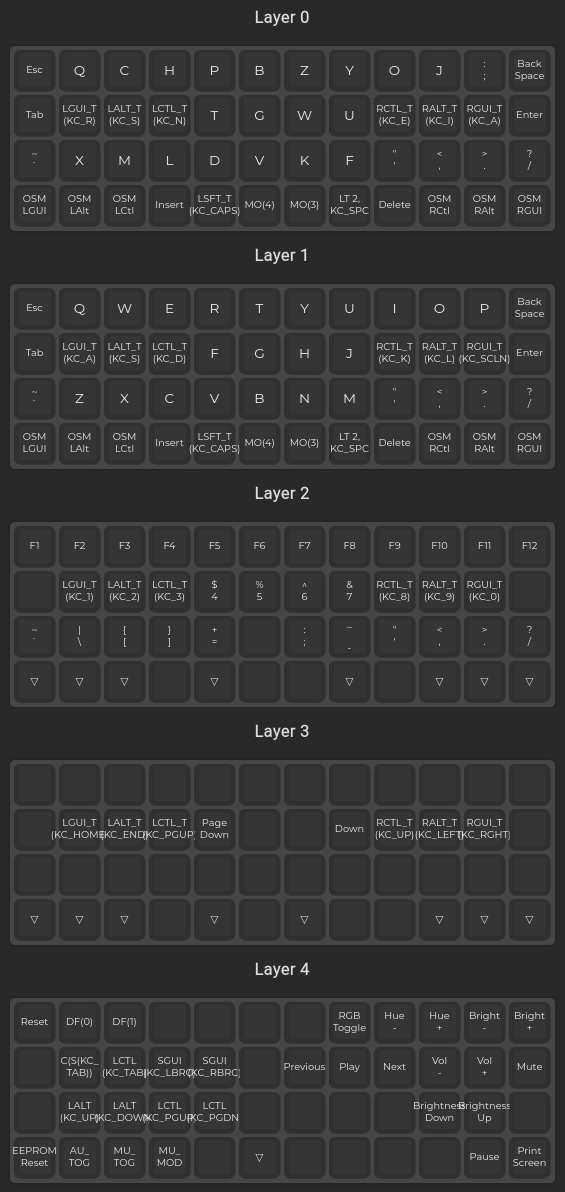
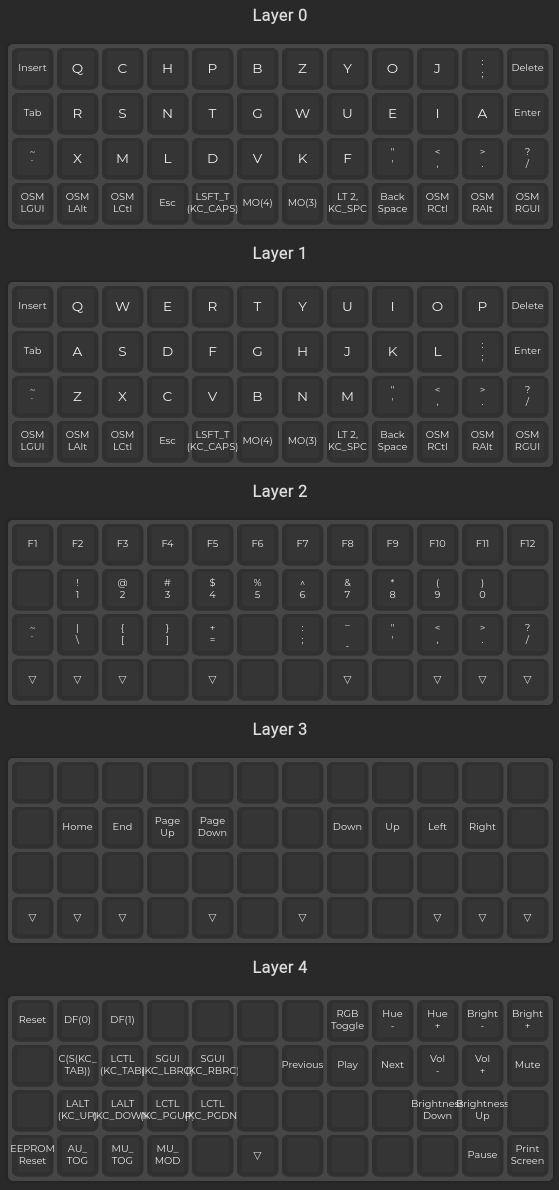
Swap to OSMs and rotate top corner keys

diff --git a/keymap.c b/keymap.c
@@ -7,9 +7,9 @@
  */
 
 const uint16_t PROGMEM keymaps[][MATRIX_ROWS][MATRIX_COLS] = {
-	[0] = LAYOUT_ortho_4x12(KC_ESC, KC_Q, KC_C, KC_H, KC_P, KC_B, KC_Z, KC_Y, KC_O, KC_J, KC_SCLN, KC_BSPC, KC_TAB, LGUI_T(KC_R), LALT_T(KC_S), LCTL_T(KC_N), KC_T, KC_G, KC_W, KC_U, RCTL_T(KC_E), RALT_T(KC_I), RGUI_T(KC_A), KC_ENT, KC_GRV, KC_X, KC_M, KC_L, KC_D, KC_V, KC_K, KC_F, KC_QUOT, KC_COMM, KC_DOT, KC_SLSH, OSM(MOD_LGUI), OSM(MOD_LALT), OSM(MOD_LCTL), KC_INS, LSFT_T(KC_CAPS), MO(4), MO(3), LT(2,KC_SPC), KC_DEL, OSM(MOD_RCTL), OSM(MOD_RALT), OSM(MOD_RGUI)),
-	[1] = LAYOUT_ortho_4x12(KC_ESC, KC_Q, KC_W, KC_E, KC_R, KC_T, KC_Y, KC_U, KC_I, KC_O, KC_P, KC_BSPC, KC_TAB, LGUI_T(KC_A), LALT_T(KC_S), LCTL_T(KC_D), KC_F, KC_G, KC_H, KC_J, RCTL_T(KC_K), RALT_T(KC_L), RGUI_T(KC_SCLN), KC_ENT, KC_GRV, KC_Z, KC_X, KC_C, KC_V, KC_B, KC_N, KC_M, KC_QUOT, KC_COMM, KC_DOT, KC_SLSH, OSM(MOD_LGUI), OSM(MOD_LALT), OSM(MOD_LCTL), KC_INS, LSFT_T(KC_CAPS), MO(4), MO(3), LT(2,KC_SPC), KC_DEL, OSM(MOD_RCTL), OSM(MOD_RALT), OSM(MOD_RGUI)),
-	[2] = LAYOUT_ortho_4x12(KC_F1, KC_F2, KC_F3, KC_F4, KC_F5, KC_F6, KC_F7, KC_F8, KC_F9, KC_F10, KC_F11, KC_F12, KC_NO, LGUI_T(KC_1), LALT_T(KC_2), LCTL_T(KC_3), KC_4, KC_5, KC_6, KC_7, RCTL_T(KC_8), RALT_T(KC_9), RGUI_T(KC_0), KC_NO, KC_GRV, KC_BSLS, KC_LBRC, KC_RBRC, KC_EQL, KC_NO, KC_SCLN, KC_MINS, KC_QUOT, KC_COMM, KC_DOT, KC_SLSH, KC_TRNS, KC_TRNS, KC_TRNS, KC_NO, KC_TRNS, KC_NO, KC_NO, KC_TRNS, KC_NO, KC_TRNS, KC_TRNS, KC_TRNS),
-	[3] = LAYOUT_ortho_4x12(KC_NO, KC_NO, KC_NO, KC_NO, KC_NO, KC_NO, KC_NO, KC_NO, KC_NO, KC_NO, KC_NO, KC_NO, KC_NO, LGUI_T(KC_HOME), LALT_T(KC_END), LCTL_T(KC_PGUP), KC_PGDN, KC_NO, KC_NO, KC_DOWN, RCTL_T(KC_UP), RALT_T(KC_LEFT), RGUI_T(KC_RGHT), KC_NO, KC_NO, KC_NO, KC_NO, KC_NO, KC_NO, KC_NO, KC_NO, KC_NO, KC_NO, KC_NO, KC_NO, KC_NO, KC_TRNS, KC_TRNS, KC_TRNS, KC_NO, KC_TRNS, KC_NO, KC_TRNS, KC_NO, KC_NO, KC_TRNS, KC_TRNS, KC_TRNS),
+	[0] = LAYOUT_ortho_4x12(KC_INS, KC_Q, KC_C, KC_H, KC_P, KC_B, KC_Z, KC_Y, KC_O, KC_J, KC_SCLN, KC_DEL, KC_TAB, KC_R, KC_S, KC_N, KC_T, KC_G, KC_W, KC_U, KC_E, KC_I, KC_A, KC_ENT, KC_GRV, KC_X, KC_M, KC_L, KC_D, KC_V, KC_K, KC_F, KC_QUOT, KC_COMM, KC_DOT, KC_SLSH, OSM(MOD_LGUI), OSM(MOD_LALT), OSM(MOD_LCTL), KC_ESC, LSFT_T(KC_CAPS), MO(4), MO(3), LT(2,KC_SPC), KC_BSPC, OSM(MOD_RCTL), OSM(MOD_RALT), OSM(MOD_RGUI)),
+	[1] = LAYOUT_ortho_4x12(KC_INS, KC_Q, KC_W, KC_E, KC_R, KC_T, KC_Y, KC_U, KC_I, KC_O, KC_P, KC_DEL, KC_TAB, KC_A, KC_S, KC_D, KC_F, KC_G, KC_H, KC_J, KC_K, KC_L, KC_SCLN, KC_ENT, KC_GRV, KC_Z, KC_X, KC_C, KC_V, KC_B, KC_N, KC_M, KC_QUOT, KC_COMM, KC_DOT, KC_SLSH, OSM(MOD_LGUI), OSM(MOD_LALT), OSM(MOD_LCTL), KC_ESC, LSFT_T(KC_CAPS), MO(4), MO(3), LT(2,KC_SPC), KC_BSPC, OSM(MOD_RCTL), OSM(MOD_RALT), OSM(MOD_RGUI)),
+	[2] = LAYOUT_ortho_4x12(KC_F1, KC_F2, KC_F3, KC_F4, KC_F5, KC_F6, KC_F7, KC_F8, KC_F9, KC_F10, KC_F11, KC_F12, KC_NO, KC_1, KC_2, KC_3, KC_4, KC_5, KC_6, KC_7, KC_8, KC_9, KC_0, KC_NO, KC_GRV, KC_BSLS, KC_LBRC, KC_RBRC, KC_EQL, KC_NO, KC_SCLN, KC_MINS, KC_QUOT, KC_COMM, KC_DOT, KC_SLSH, KC_TRNS, KC_TRNS, KC_TRNS, KC_NO, KC_TRNS, KC_NO, KC_NO, KC_TRNS, KC_NO, KC_TRNS, KC_TRNS, KC_TRNS),
+	[3] = LAYOUT_ortho_4x12(KC_NO, KC_NO, KC_NO, KC_NO, KC_NO, KC_NO, KC_NO, KC_NO, KC_NO, KC_NO, KC_NO, KC_NO, KC_NO, KC_HOME, KC_END, KC_PGUP, KC_PGDN, KC_NO, KC_NO, KC_DOWN, KC_UP, KC_LEFT, KC_RGHT, KC_NO, KC_NO, KC_NO, KC_NO, KC_NO, KC_NO, KC_NO, KC_NO, KC_NO, KC_NO, KC_NO, KC_NO, KC_NO, KC_TRNS, KC_TRNS, KC_TRNS, KC_NO, KC_TRNS, KC_NO, KC_TRNS, KC_NO, KC_NO, KC_TRNS, KC_TRNS, KC_TRNS),
 	[4] = LAYOUT_ortho_4x12(RESET, DF(0), DF(1), KC_NO, KC_NO, KC_NO, KC_NO, RGB_TOG, RGB_HUD, RGB_HUI, RGB_VAD, RGB_VAI, KC_NO, C(S(KC_TAB)), LCTL(KC_TAB), SGUI(KC_LBRC), SGUI(KC_RBRC), KC_NO, KC_MPRV, KC_MPLY, KC_MNXT, KC_VOLD, KC_VOLU, KC_MUTE, KC_NO, LALT(KC_UP), LALT(KC_DOWN), LCTL(KC_PGUP), LCTL(KC_PGDN), KC_NO, KC_NO, KC_NO, KC_NO, KC_BRID, KC_BRIU, KC_NO, EEP_RST, AU_TOG, MU_TOG, MU_MOD, KC_NO, KC_TRNS, KC_NO, KC_NO, KC_NO, KC_NO, KC_PAUS, KC_PSCR)
 };

diff --git a/config.h b/config.h
@@ -4,4 +4,7 @@
 #define TAPPING_TERM 200
 #define IGNORE_MOD_TAP_INTERRUPT
 #define PERMISSIVE_HOLD
-#define TAPPING_FORCE_HOLD
+// #define TAPPING_FORCE_HOLD // Incompatible with oneshot toggle
+
+#define ONESHOT_TAP_TOGGLE 2  /* Tapping this number of times holds the key until tapped once again. */
+#define ONESHOT_TIMEOUT 5000  /* Time (in ms) before the one shot key is released */
